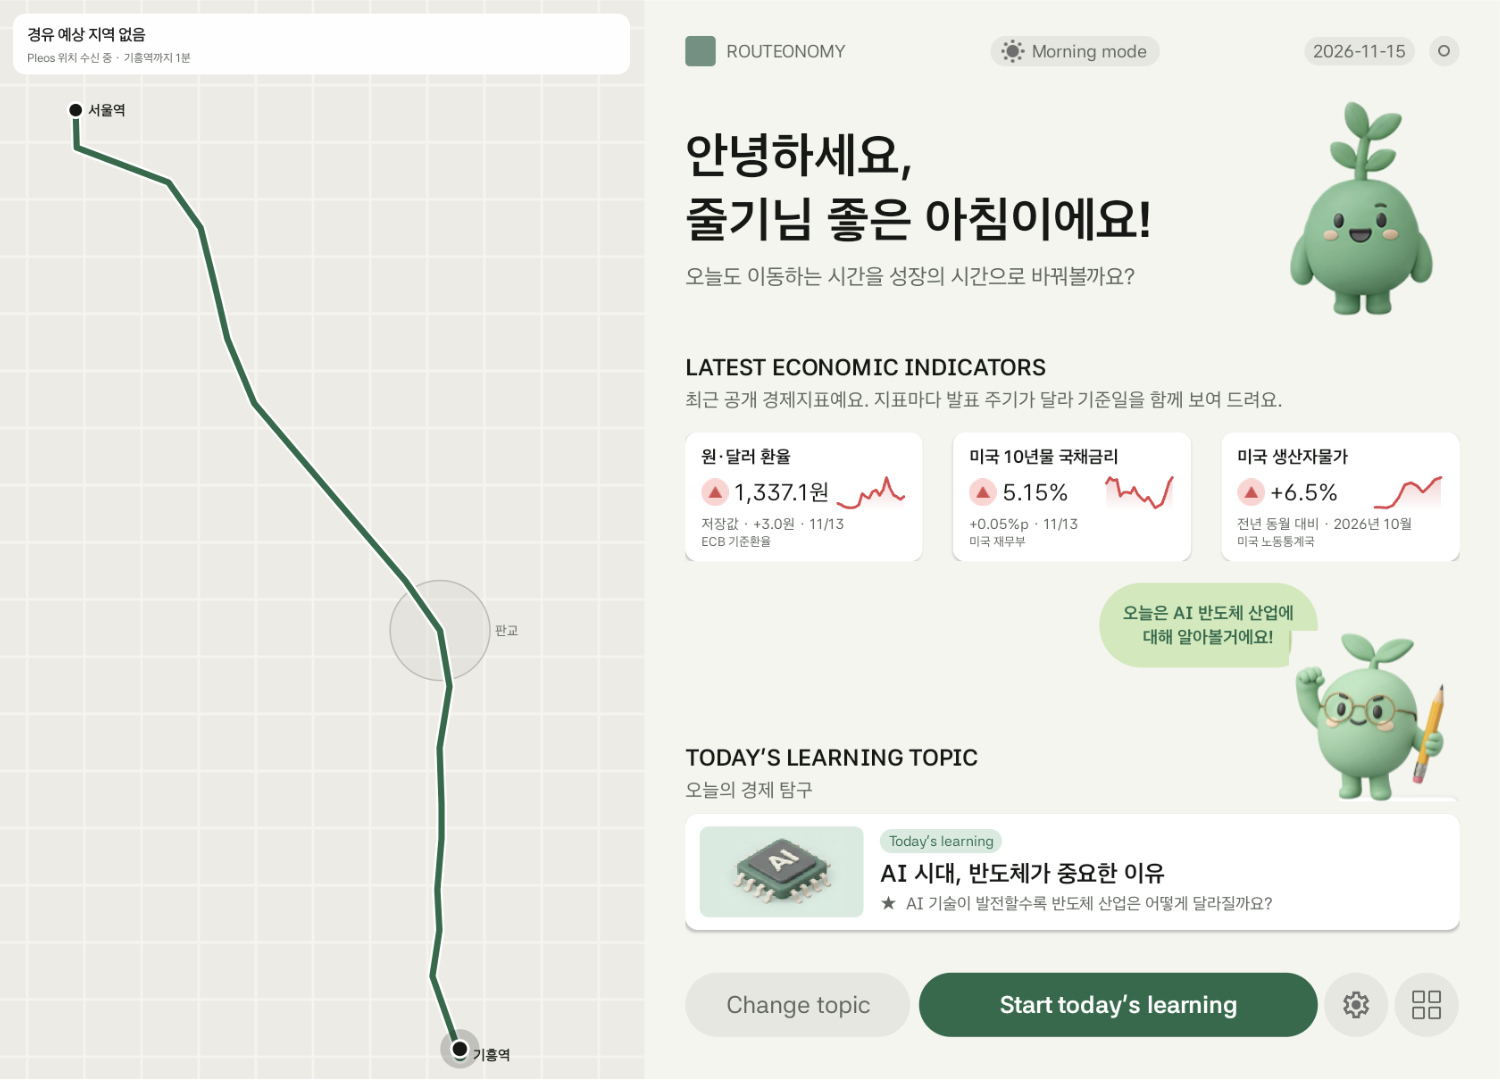
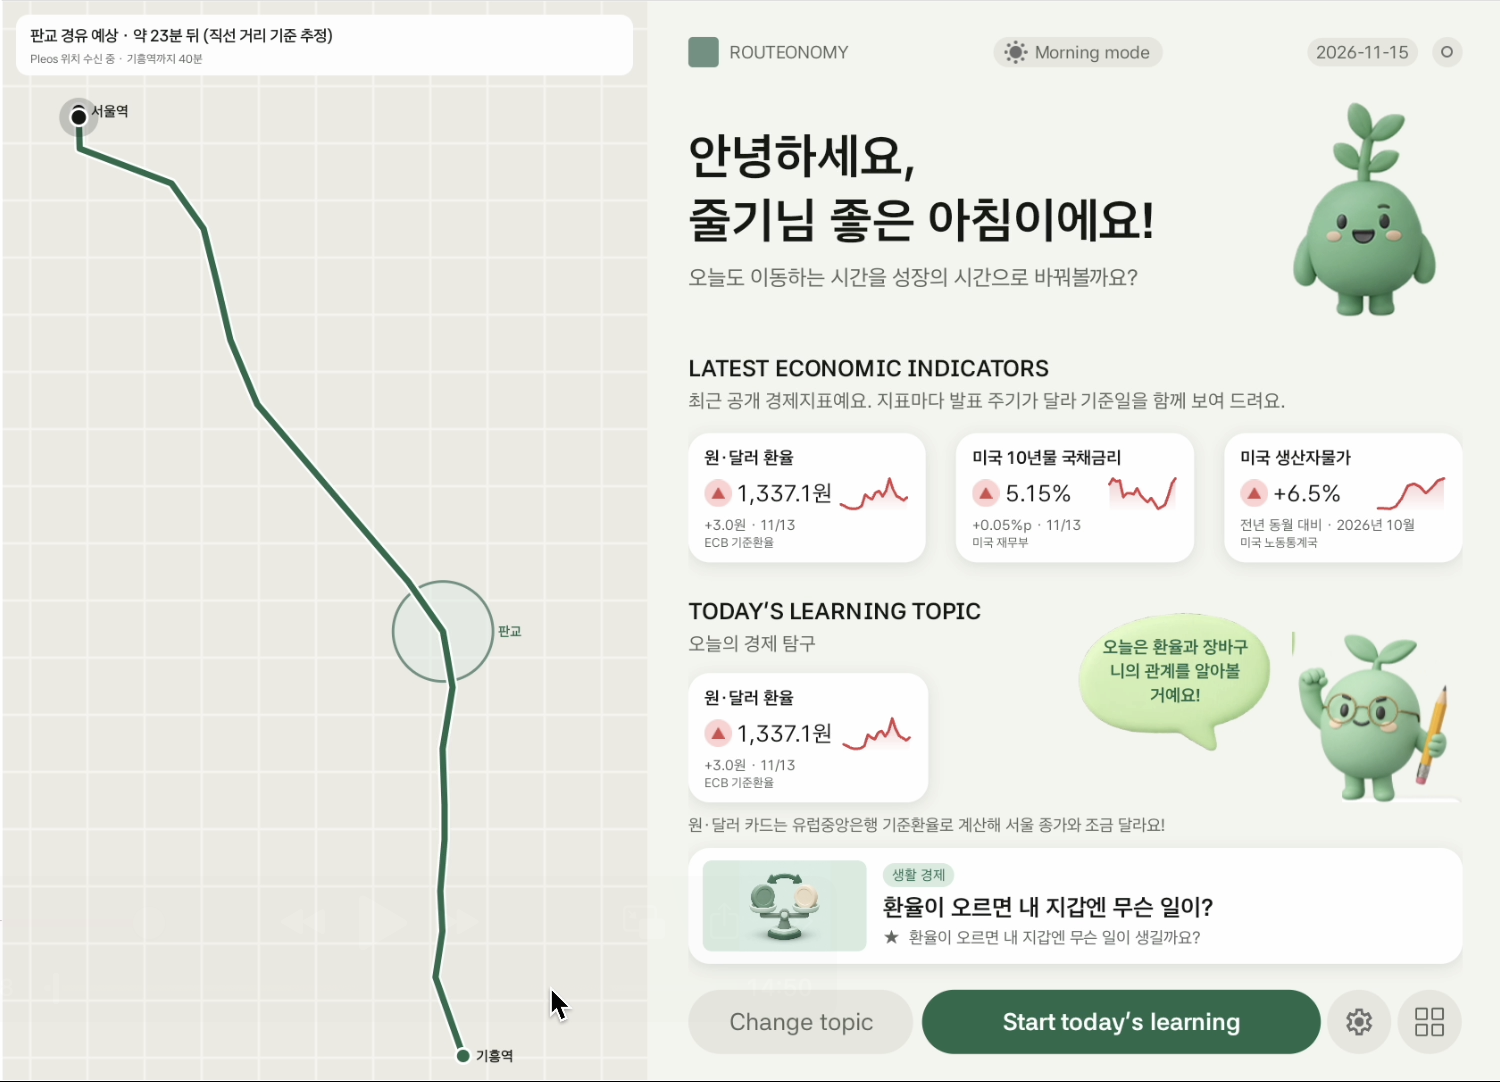
docs: README에 화면 캡처, 시연 주행·학습 마무리 흐름, APK 위치와 화면 규격 반영 (#7)

diff --git a/README.md b/README.md
@@ -11,29 +11,62 @@
 
 ## 서울역에서 기흥역까지
 
-![Pleos 에뮬레이터의 Routeonomy 화면. 왼쪽에는 서울역·판교·기흥역을 잇는 경로 그림, 오른쪽에는 경제지표와 학습 주제가 있는 대시보드가 보입니다.](docs/images/demo-route-dashboard.png)
+*2026년 11월 15일 Pleos Connect 에뮬레이터에서 캡처한 화면입니다.*
 
-*Pleos Connect 에뮬레이터 캡처(2026-11-15). 넓은 창에서는 왼쪽 경로와 오른쪽 학습 화면을 함께 볼 수 있습니다.*
+### 출발 전 대시보드
 
-| 주행 장면 | 앱에서 볼 수 있는 동작 |
+서울역에서 출발하기 전 공개 경제지표를 확인하고 첫 학습 주제를 고릅니다. 출발하면 선택한 이야기부터 재생합니다.
+
+![왼쪽에 서울역에서 판교를 지나 기흥역까지 이어지는 경로, 오른쪽에 경제지표 세 가지와 환율 학습 주제가 보이는 대시보드](docs/images/demo-route-dashboard.png)
+
+### 판교 전월세 브리핑
+
+지도에 판교 진입이 표시됩니다. 듣던 이야기를 마치면 음성 안내와 함께 판교의 전월세 이야기로 넘어갑니다.
+
+![판교 반경 안에 현재 위치가 표시되고 판교 전월세 브리핑이 재생되는 화면](docs/images/demo-pangyo-briefing.png)
+
+### 기흥역 도착 정리
+
+기흥역에 도착해 기어를 P로 바꾸면 학습 키워드, 학습 시간, 끝까지 들은 이야기 수, 이번 주행에서 얻은 XP를 확인할 수 있습니다.
+
+![기흥역 도착 후 학습 키워드, 학습 시간 12분, 끝까지 들은 이야기 10개, 획득 XP와 성장 단계가 표시된 화면](docs/images/demo-arrival-summary.png)
+
+### 주차 후 퀴즈와 해설
+
+끝까지 들은 이야기에서 최대 3문항을 풉니다. 답안을 제출하면 정답과 해설을 확인할 수 있습니다.
+
+![을지로 상권에 관한 퀴즈에서 선택한 오답과 정답을 색으로 구분하고 해설을 표시한 화면](docs/images/demo-quiz-explanation.png)
+
+<details>
+<summary>주제 선택·학습 리뷰·퀴즈 힌트·정답 채점·레벨업 화면 더 보기</summary>
+
+| 주제 선택 | 학습 리뷰 |
 | --- | --- |
-| **출발 전** | 대시보드에서 최근 공개 경제지표를 확인하고 첫 학습 주제를 고릅니다. |
-| **서울역에서 출발** | 선택한 주제부터 듣고, 예상 경유지까지의 시간에 맞춰 일반 브리핑을 이어 갑니다. 경로 그림에는 현재 위치와 판교 반경이 표시됩니다. |
-| **판교 진입** | 화면에 판교 진입이 표시됩니다. 듣던 이야기가 끝나면 음성 전환 안내와 함께 판교의 산업·경제 이야기로 넘어갑니다. |
-| **기흥역 도착 후 주차** | 도착과 기어 P가 확인되면 도착 정리 화면에서 키워드, 학습 시간, 끝까지 들은 이야기 수, 이번 주행의 XP를 확인합니다. 들은 내용에 해당하는 문항이 있으면 퀴즈를 시작할 수 있습니다. |
+| ![신산업·기술, 생활 경제, 지역·부동산 주제와 랜덤플레이 중 고르는 화면](docs/images/demo-topic-selection.png) | ![도착 후 오늘 들은 이야기에 대한 의견을 고르는 화면](docs/images/demo-lesson-review.png) |
+
+| 퀴즈 힌트 | 정답 채점 |
+| --- | --- |
+| ![생산자물가지수의 의미를 알려 주는 퀴즈 힌트 화면](docs/images/demo-quiz-hint.png) | ![정답에 동그라미와 3 XP 보상이 표시된 퀴즈 화면](docs/images/demo-quiz-correct.png) |
+
+**레벨업**
+
+![누적 XP를 달성해 줄기에서 꽃으로 성장한 레벨업 화면](docs/images/demo-level-up.png)
+
+</details>
 
 ## 주요 기능
 
 | 기능 | 동작 | 사용한 Pleos SDK |
 | --- | --- | --- |
 | **기어에 따라 바뀌는 화면** | 주행 화면(D·R·N)에서도 이전·다음 주제, 재생·일시정지, 홈 이동을 사용할 수 있습니다. 원고와 오늘의 발견은 P에서 열리고, 퀴즈에는 목적지 도착도 필요합니다. | **Vehicle** 기어 구독 |
-| **남은 시간에 맞춘 브리핑 구성** | 서울역에서 기흥역까지의 기준 시간 40분을 남은 직선거리 비율로 줄여 주행 시간을 추정합니다. 예상 경유지가 있으면 그곳까지의 시간으로 일반 이야기를 고르고, 지역 진입 뒤에는 목적지까지의 시간으로 지역 이야기를 고릅니다. 대시보드에서 선택한 첫 주제는 시간 예산에 관계없이 먼저 배치합니다. | **FusedLocation** 현재 위치 |
+| **남은 시간에 맞춘 브리핑 구성** | 서울역에서 기흥역까지의 기준 시간 40분을 남은 직선거리 비율로 줄여 주행 시간을 추정합니다. 예상 경유지가 있으면 그곳까지의 시간으로 일반 이야기를 고르고, 지역 진입 뒤에는 목적지까지의 시간으로 지역 이야기를 고릅니다. 대시보드에서 선택한 첫 주제는 시간 예산에 관계없이 먼저 배치하고, 이어서 **고른 분류 2편마다 다른 분류 1편**을 섞습니다. 지역 이야기를 마친 뒤 시간이 남으면 아직 듣지 않은 이야기를 이어서 들려줍니다. | **FusedLocation** 현재 위치 |
 | **지역 브리핑** | 현재 위치와 목적지에서 후보 지역까지의 직선거리를 비교해 경유지를 예상합니다. 판교 반경 진입이 확인되면 듣던 이야기를 마친 뒤 지역 브리핑으로 전환합니다. 재생 중이거나 일시정지한 이야기가 없으면 바로 전환합니다. | **FusedLocation** 현재 위치 + 근접 알림(ENTER/EXIT) |
 | **음성 브리핑** | 원고를 문장 단위로 한국어 음성으로 읽습니다. 이전·다음 주제로 이동할 수 있고, 일시정지하거나 홈에 다녀오면 멈춘 문장의 처음부터 이어 듣습니다. | **TextToSpeech** (`ON_DEVICE`) |
 | **경로 그림** | 앱에 저장된 좌표로 시연 경로와 판교 반경을 직접 그리고, 수신한 현재 위치를 그 위에 표시합니다. | **FusedLocation** 현재 위치 |
 | **도착 판정** | 현재 위치를 기흥역 반경 300m와 비교하고, 같은 반경에 등록한 근접 알림도 받습니다. 두 경로에서 같은 진입을 감지하면 한 번만 처리하고, 도착 상태는 반경을 벗어나도 유지합니다. | **FusedLocation** 현재 위치 + 근접 알림 |
 | **오늘의 발견** | P에서 주행 화면의 격자 버튼을 열면 끝까지 들은 이야기의 제목, 키워드, 경제 용어와 설명을 볼 수 있습니다. 원고에 출처가 있으면 첫 번째 출처도 표시합니다. | **Vehicle** 기어(P) · **TextToSpeech** 문장 완료 콜백 |
-| **도착 후 퀴즈** | 도착 정리 화면에서 **Today’s Economic Quiz**를 누르면 끝까지 들은 이야기와 연결된 3지선다 문항을 청취 완료 순서로 최대 3개 풉니다. 각 문항은 브리핑에서 들은 경제 개념을 이해했는지 확인합니다. 1 XP를 쓰면 배운 용어의 설명을 힌트로 볼 수 있습니다. 답을 제출하면 채점 결과와 해설을 확인하고, 결과 화면에서 다시 풀 수 있습니다. | **FusedLocation** 도착 판정 · **Vehicle** 기어(P) · **TextToSpeech** 문장 완료 콜백 |
+| **도착 후 퀴즈** | 도착 정리 화면에서 **Today’s Economic Quiz**를 누르면 끝까지 들은 이야기와 연결된 3지선다 문항을 청취 완료 순서로 최대 3개 풉니다. 각 문항은 브리핑에서 들은 경제 개념을 이해했는지 확인합니다. 1 XP를 쓰면 배운 용어의 설명을 힌트로 볼 수 있습니다. 답을 제출하면 채점 결과와 해설을 확인하고, 결과 화면에서 다시 풀 수 있습니다. 퀴즈 도중 기어를 바꿨다가 P로 돌아와도 이어서 풉니다. | **FusedLocation** 도착 판정 · **Vehicle** 기어(P) · **TextToSpeech** 문장 완료 콜백 |
+| **오늘 학습 마치기** | 도착 정리의 **퀴즈 없이 마치기** 또는 퀴즈 결과의 **오늘 학습 마치기**를 누르면 레벨업 축하(있을 때) → 오늘의 리뷰(보내기·건너뛰기) → 홈의 **오늘 학습 완료**로 끝납니다. 도착 뒤 주행 화면은 오늘의 발견을 읽는 용도로만 열리고 음성은 다시 재생되지 않습니다. | **FusedLocation** 도착 판정 · **Vehicle** 기어(P) |
 | **성장 단계** | 일반·지역 이야기를 끝까지 듣고 퀴즈에 답하면 XP가 쌓입니다. 누적 XP에 따라 캐릭터가 씨앗 → 새싹 → 줄기 → 꽃 → 열매로 자랍니다. | **TextToSpeech** 문장 완료 콜백 · 앱 내부 퀴즈 채점 |
 
 위치가 갱신되면 현재 재생 중이거나 일시정지한 이야기를 유지하고, 아직 재생하지 않은 이야기를 예상 시간과 원고별 길이에 맞춰 다시 고릅니다. 다음 이야기의 길이를 판단할 때는 현재 이야기의 남은 재생 시간까지 따로 차감하지 않아, 실제 재생 시간은 추정과 달라질 수 있습니다.
@@ -64,15 +97,16 @@
 | 항목 | 내용 |
 | --- | --- |
 | 에뮬레이터 | Pleos Connect v2.1.0 AVD (Android 14, API 34) |
-| 앱 | 최신 APK는 [Releases](https://github.com/beolene1/ROUTEONOMY/releases)에 올라갑니다. 직접 빌드하는 방법은 아래 [직접 빌드하기](#직접-빌드하기)에 있습니다. |
-| 체험용 경로 | [`tools/demo-route.gpx`](tools/demo-route.gpx) — 서울역 → 판교 → 기흥역, 1배속 40분 |
+| 화면 규격 | 2560 × 1440 px, 160 dpi (전체 창 기준. 1200dp보다 좁은 반반 분할 창도 지원) |
+| 앱 | release APK: [`apk/Carconomy_Routeonomy_release.apk`](apk/Carconomy_Routeonomy_release.apk). 직접 빌드하는 방법은 아래 [직접 빌드하기](#직접-빌드하기)에 있습니다. |
+| 체험용 경로 | 앱 안 **시연 주행** 버튼(3·5·10배속) 또는 [`tools/demo-route.gpx`](tools/demo-route.gpx) — 서울역 → 판교 → 기흥역, 1배속 40분 |
 
 ### 설치
 
 에뮬레이터를 켠 뒤, APK 파일을 에뮬레이터 창에 끌어다 놓으면 설치됩니다. 터미널을 쓴다면 다음 명령으로도 설치할 수 있습니다.
 
 ```bash
-adb install -r routeonomy.apk
+adb install -r apk/Carconomy_Routeonomy_release.apk
 ```
 
 ### 체험 순서
@@ -80,16 +114,18 @@ adb install -r routeonomy.apk
 1. **출발 위치 정하기** — 에뮬레이터 `⋯`(Extended controls) → **Location**에서 단일 지점을 서울역 `37.55594, 126.97233`으로 지정합니다.
 2. **앱 실행** — Routeonomy를 열고 위치 권한 요청에서 **허용**을 누릅니다. 왼쪽 경로 그림 위에 `기흥역까지 40분`이 보이면 준비가 끝난 것입니다.
 3. **브리핑 시작** — 대시보드에서 주제를 고르고 **Start today's learning**을 누릅니다.
-4. **주행 시작** — Location → **Routes**에서 체험용 GPX를 불러와 재생하고(3~5배속 권장), Virtual Console에서 기어를 **D**로 바꿉니다.
+4. **주행 시작** — 둘 중 하나로 위치를 움직이고, Virtual Console에서 기어를 **D**로 바꿉니다.
+   - **앱 안 시연 주행(간편)**: 주행 화면(P)의 ⚙ 버튼 → 시뮬레이션 입력에서 **시연 주행 3배속**(약 13분) · **5배속**(약 8분) · **10배속**(약 4분)을 누릅니다. 앱이 경로를 따라 1초마다 위치를 옮기며, 같은 패널에서 일시정지할 수 있습니다. 한 번 쓰면 앱을 다시 켤 때까지 에뮬레이터 위치는 무시합니다.
+   - **에뮬레이터 GPX**: Location → **Routes**에서 체험용 GPX를 불러와 재생합니다(3~5배속 권장).
    - 5배속이면 약 4.5분 뒤 판교에 들어섭니다. 듣던 이야기가 끝나면 판교 이야기로 넘어갑니다.
-5. **도착과 퀴즈** — 기흥역에 도착하면 기어를 **P**로 바꿉니다. 도착 정리 화면에서 이번 주행의 학습 기록을 확인하고 **Today’s Economic Quiz**를 눌러 퀴즈를 시작합니다.
+5. **도착과 퀴즈** — 기흥역에 도착하면 기어를 **P**로 바꿉니다. 도착 정리 화면에서 이번 주행의 학습 기록을 확인하고 **Today’s Economic Quiz**를 눌러 퀴즈를 시작합니다. 퀴즈를 마치면 **오늘 학습 마치기**로 리뷰를 남기고 홈으로 돌아갑니다.
 
 ### 알아 두면 좋은 점
 
 - **퀴즈는 끝까지 들은 이야기에서만 나옵니다.** 배속 재생으로 이야기를 다 듣기 전에 도착하면 문항이 적을 수 있습니다.
 - **위치가 바뀌지 않을 때**는 Location 단일 지점을 판교 직전 `37.41632, 127.09543` → 판교 `37.40159, 127.10842` → 기흥역 `37.27566, 127.11595` 순서로 직접 옮겨도 같은 흐름을 볼 수 있습니다.
 - **성장 단계를 바로 보고 싶다면** P 상태에서 ⚙ 버튼 → 시뮬레이션 입력의 `다음 단계 직전`을 누른 뒤 일반 또는 지역 이야기 하나를 끝까지 들어 보세요. `XP 초기화`로 처음 상태로 돌아갈 수 있습니다.
-- 도착은 한 번 처리되면 유지됩니다. 처음부터 다시 체험하려면 앱을 다시 실행하세요.
+- 도착과 '오늘 학습 완료'는 한 번 처리되면 유지됩니다. 처음부터 다시 체험하려면 에뮬레이터 위치를 서울역으로 돌려 둔 뒤 앱을 다시 실행하세요.
 - 에뮬레이터에서 음성이 떨리는 것은 에뮬레이터 오디오 특성입니다.
 
 ## Pleos SDK 활용
@@ -150,7 +186,7 @@ flowchart LR
 - **TTS 콜백 순서 보정**: 문장을 건너뛰면 `stop` 뒤에 멈춘 문장의 종료 콜백이 늦게 올 수 있습니다. 에뮬레이터에서 콜백 순서를 직접 기록해 확인했고, `SpeechGate`가 멈춘 문장의 콜백은 버리고 다음 문장을 이어 읽게 했습니다. 그래서 건너뛴 이야기가 '끝까지 들은 이야기'로 잘못 기록되지 않습니다.
 - **위치 콜백과 근접 알림의 중복 제거**: `GeofenceGate`는 지역과 목적지별로 두 경로에서 온 진입을 한 번만 처리합니다. 첫 실제 위치가 이미 반경 안이면 반경 밖을 확인한 뒤의 진입부터 인정합니다.
 - **스레드와 자원 정리**: SDK 콜백은 메인 스레드로 옮겨 처리하고, 앱이 끝날 때 리스너·근접 알림·SDK 연결을 모두 해제합니다.
-- **SDK 우선, 시연 입력은 백업**: 시뮬레이션 입력은 SDK가 신호를 주지 못할 때만 쓰는 버튼입니다. 위치 이동 버튼도 FusedLocation 위치와 같은 처리 경로를 거쳐, 판정 로직은 하나만 둡니다.
+- **SDK 우선, 시연 입력은 백업**: 시뮬레이션 입력은 SDK가 신호를 주지 못할 때만 쓰는 버튼입니다. 위치 이동 버튼과 앱 안 시연 주행도 FusedLocation 위치와 같은 처리 경로를 거쳐, 판정 로직은 하나만 둡니다.
 
 ### 에뮬레이터 제약과 대응
 
@@ -218,6 +254,8 @@ Android Studio와 Android SDK 37이 필요합니다.
 adb install -r app/build/outputs/apk/debug/app-debug.apk
 ```
 
+release APK는 `./gradlew :app:assembleRelease`로 만듭니다. 서명 키는 저장소에 없으며, `local.properties`의 `releaseSigningProperties`에 키 정보 파일 경로를 적으면 서명됩니다(없으면 서명 없이 빌드).
+
 단위 테스트, lint, 디버그 빌드를 한 번에 확인하려면 다음을 실행합니다.
 
 ```bash
@@ -228,4 +266,4 @@ adb install -r app/build/outputs/apk/debug/app-debug.apk
 
 - [Pleos Connect SDK 공식 문서](https://document.pleos.ai/docs/pleos-only/connect-sdk-pleos/)
 
-팀 [@beolene1](https://github.com/beolene1)
+팀 카코노미(Carconomy) · [@beolene1](https://github.com/beolene1)
